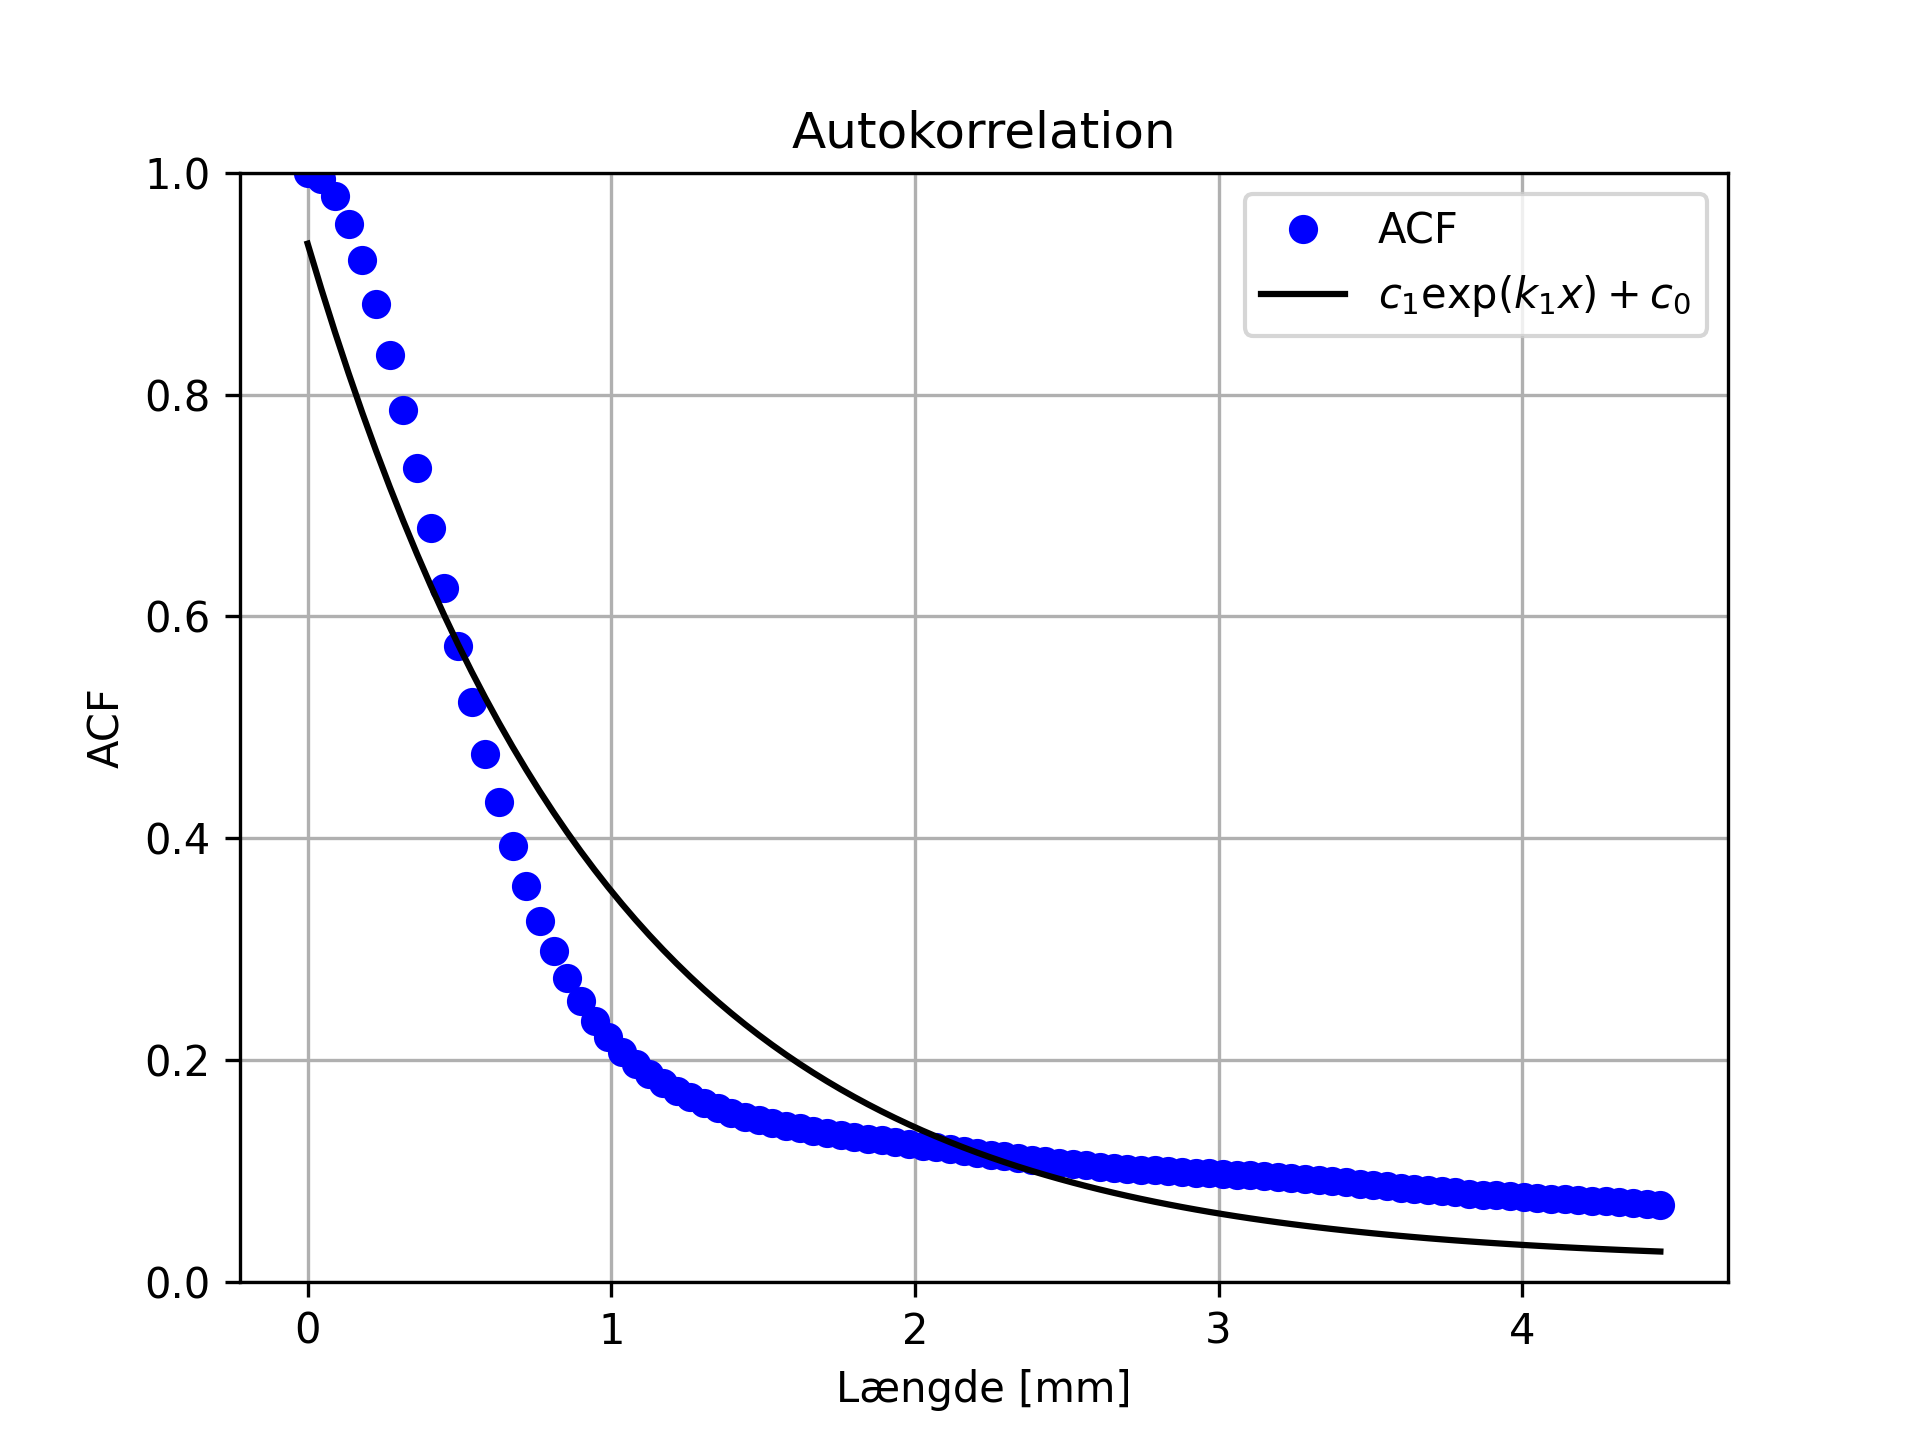
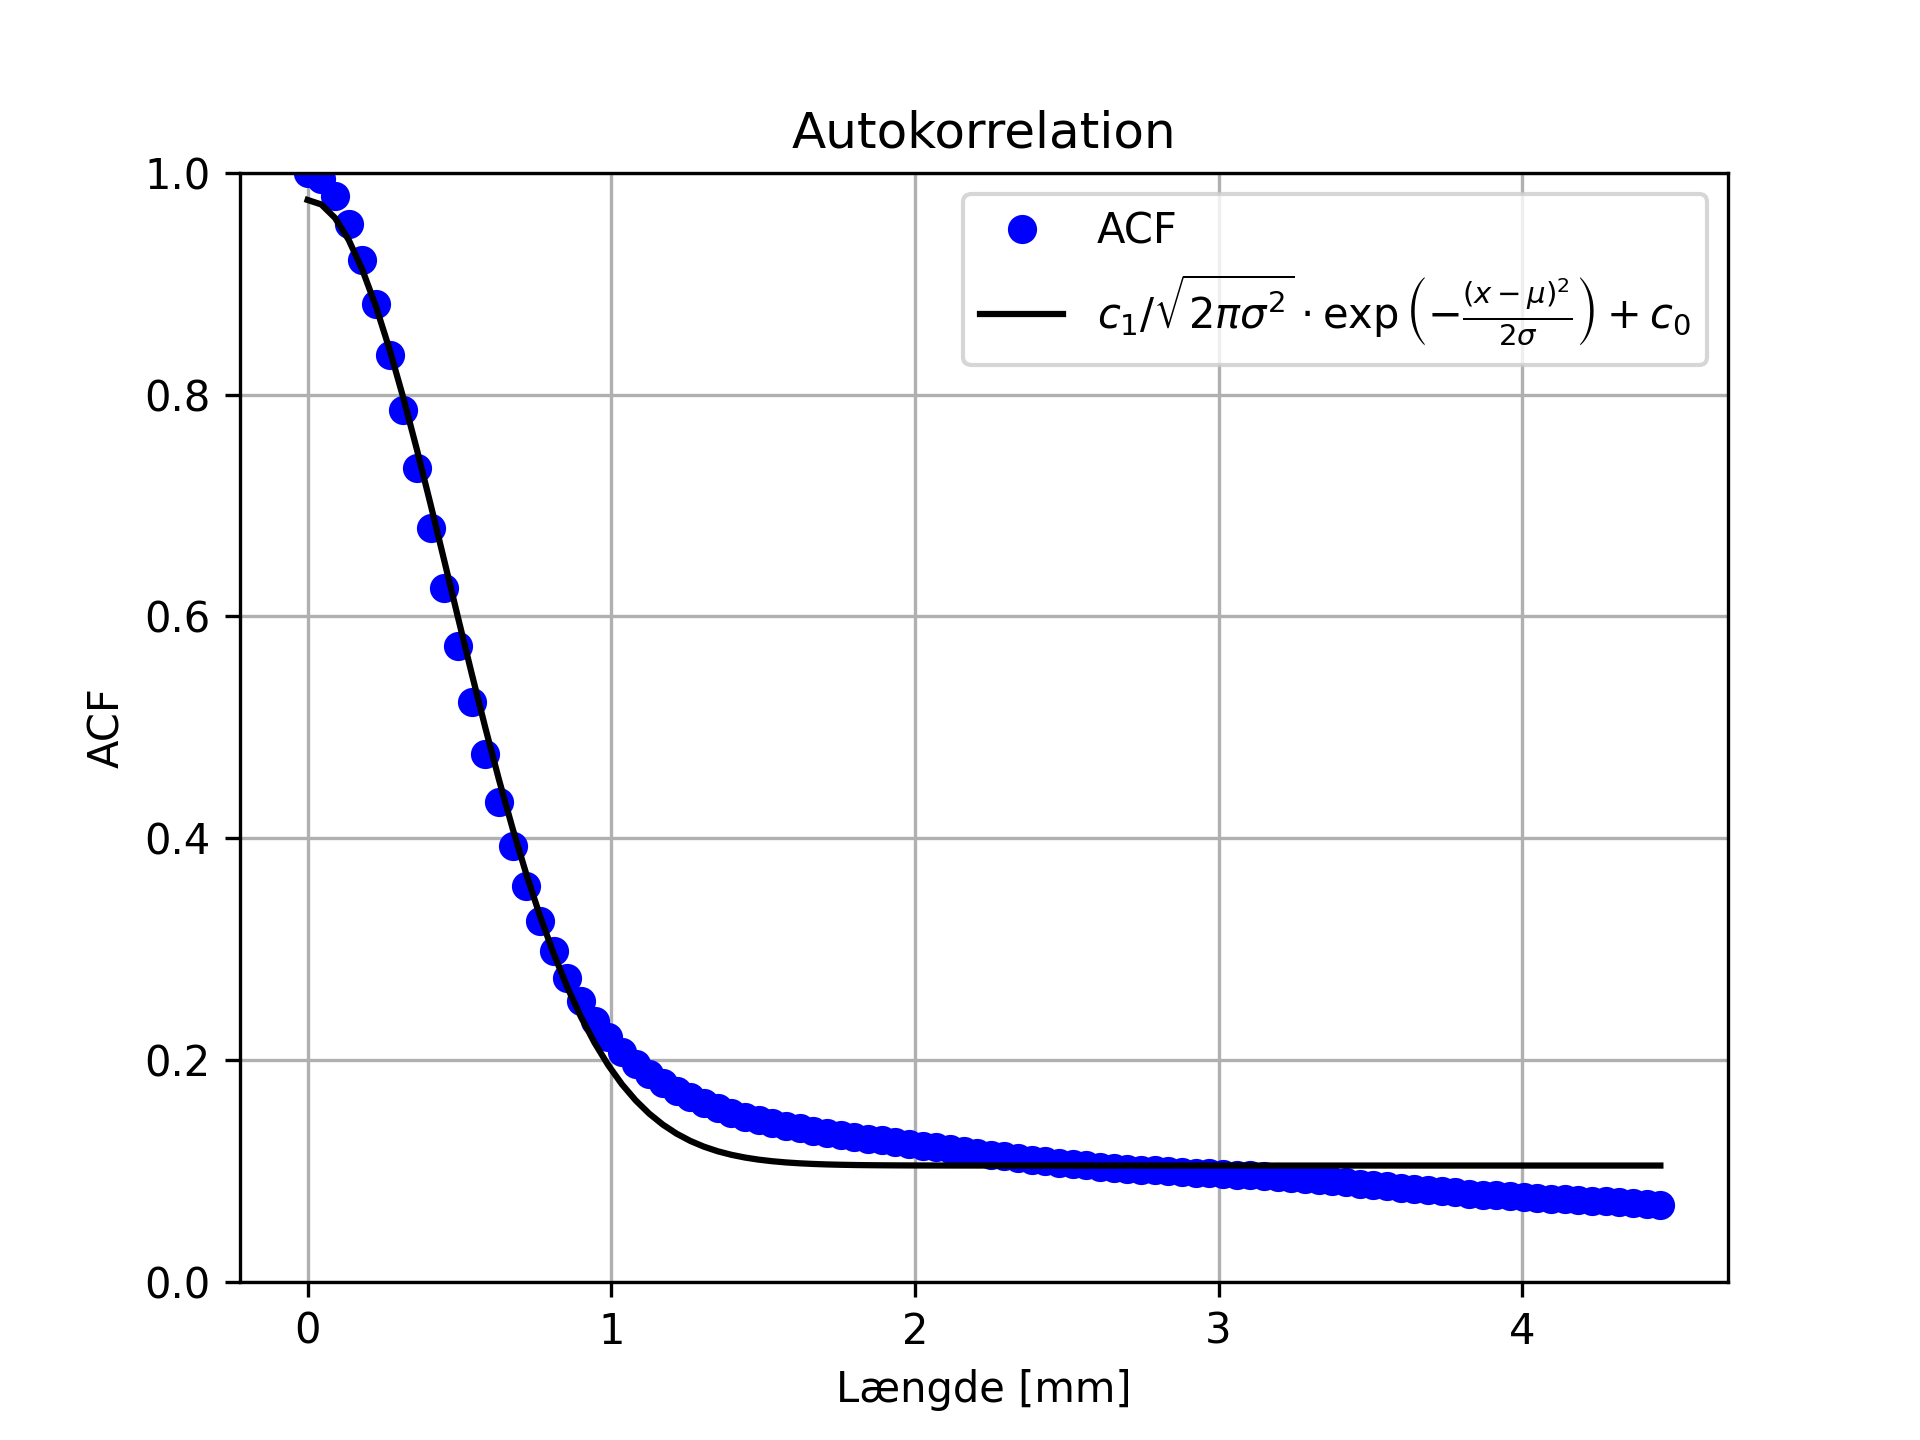
Fixed Plots

diff --git a/plot_acf.py b/plot_acf.py
@@ -11,15 +11,20 @@ def plot_acf(acf, lags, n=1, conversion=90/2000, niter=20, func=1, saveas = None
     x = np.arange(lags)
     y = acf[x]
     x = x*conversion
-    m = lsm(x,y, niter=niter, func=func)
+    if func == 1:
+        m0 = [0.1, 1, -1]
+    elif func == 2:
+        m0 = [0.1,1,0.1,1]
+    
+    m = lsm(x, y, m=m0, niter=niter, func=func)
 
     if func == 1:
         fy = func1(m,x)
         plotlabel = r'$c_1 \exp(k_1 x) + c_0$'
     elif func == 2:
         fy = func2(m,x)
-        plotlabel = r'$c_2 \exp(k_2 x^2) + c_1 \exp(k_1 x) + c_0$'
-    
+        plotlabel = r'$c_1 / \sqrt{2 \pi \sigma^2} \cdot \exp\left(-\frac{\left(x - \mu \right)^2}{2 \sigma}\right) + c_0$'
+
     #print(m)
     plt.figure()
     plt.plot(x,y,'bo',label="ACF")
@@ -35,7 +40,6 @@ def plot_acf(acf, lags, n=1, conversion=90/2000, niter=20, func=1, saveas = None
         #print(fname)
         plt.savefig(fname,dpi=300,format="png")
         plt.show(block=False)
-    plt.close()
 
     rvs = np.cumsum(y)
     cdf = np.cumsum(fy)
@@ -49,34 +53,40 @@ def plot_acf(acf, lags, n=1, conversion=90/2000, niter=20, func=1, saveas = None
     print(f"Statistic is {stat:.04f} compared to {test:.04f}")
     print(f"p-value is {pval:.04f}")
 
+#---------------------------------------------------------------
+
+
 def lsm(x,y, m=[0.1, 1, -1], niter=50, func=1):
     """
     Least square method
     """
-    y = y[:, np.newaxis]
+    # Omdanner til søjlevektorer
+    y = np.hstack([np.flip(y),y])[:,np.newaxis]
+    x = np.hstack([np.flip(-x),x])[:,np.newaxis]
 
-    for i in range(niter):
+    #Itererer
+    for i in range(niter): 
 
         if func == 1:
             # eksponentiel funktion m1*exp(m2*x) + m0
             d0 = dfd0(m,x)
             d1 = df1d1(m,x)
             d2 = df1d2(m,x)
-            G = np.transpose(np.vstack((d0,d1,d2)))
-            yz = y - func1(m,x)[:,np.newaxis]
+            G = np.hstack((d0,d1,d2))
+            yz = y - func1(m,x)
         elif func == 2:
             #Gaussisk funktion exp(x^2) + a0
             d0 = dfd0(m,x)
             d1 = df2d1(m,x)
             d2 = df2d2(m,x)
-            G = np.transpose(np.vstack((d0,d1,d2)))
-            yz = y - func2(m,x)[:,np.newaxis]
+            d3 = df2d3(m,x)
+            G = np.hstack((d0,d1,d2,d3))
+            yz = y - func2(m,x)
         
-        delta = np.linalg.lstsq(G,yz,rcond=None)[0]
-        #print(np.shape(delta))
+        delta = np.linalg.lstsq(G,yz,rcond=None)[0] #Magi
         m = m + np.transpose(delta)[0]
         res = np.transpose(delta).dot(delta)[0][0]
-        #print(f"Residuals for {i}: {res}")
+        print(f"Residuals for {i}: {res}")
         if res < 1e-8:
             break
         
@@ -84,16 +94,18 @@ def lsm(x,y, m=[0.1, 1, -1], niter=50, func=1):
     return m
 
 
+#--------------------------------------------------------------
+
 def func1(m,x):
     return m[0] + m[1]*np.exp(m[2]*x)
 
 def func2(m,x):
-    return m[0] + 1/(m[1]*np.sqrt(2*np.pi)) * np.exp(-1/2 * ((x-m[2])/m[1])**2)
+    return m[0] + (m[3]/(m[1]*np.sqrt(2*np.pi))) * np.exp(-0.5 * ((x-m[2])**2) / (m[1]**2))
 
+#--------------------------------------------------------------
 
-
-def dfd0(m,x):
-    return np.ones(np.size(x))
+def dfd0(m,x): #c_0
+    return np.ones(np.size(x))[:,np.newaxis]
 
 def df1d1(m,x):
     return np.exp(m[2]*x)
@@ -101,11 +113,15 @@ def df1d1(m,x):
 def df1d2(m,x):
     return m[0]*m[1]*np.exp(m[2]*x)
 
-def df2d1(m,x):
-    return ((x - m[2])**2 - m[1]**2)/(m[1]**3) * func2([0,m[1],m[2]],x)
+def df2d1(m,x): #sigma
+    return (((x - m[2])**2 - m[1]**2)/(m[1]**3)) * func2([0,m[1],m[2],m[3]],x)
 
-def df2d2(m,x):
-    return (x-m[2])/(m[1]**2) * func2([0,m[1],m[2]],x)
+def df2d2(m,x): #mu
+    return ((x-m[2])/(m[1]**2)) * func2([0,m[1],m[2],m[3]],x)
+
+def df2d3(m,x): #C_1
+    return func2([0,m[1],m[2],1],x)
+
 
 
 

diff --git a/Tester.py b/Tester.py
@@ -4,8 +4,14 @@ from clipBlur import clipBlur
 from autocofunc import autoCor
 from acf import acf
 #from string import rfind
+from plot_acf import func2
+import matplotlib.pyplot as plt
 
-# acf("thin_slices/firstyearice/southerntransect/20200201_145719.jpg", plot=True, plotfunc=1)
-# acf("thin_slices/firstyearice/southerntransect/20200201_145739.jpg", plot=True, plotfunc=1)
+acf("thin_slices/firstyearice/southerntransect/20200201_145719.jpg", plot=True, plotfunc=2)
+acf("thin_slices/firstyearice/southerntransect/20200201_145739.jpg", plot=True, plotfunc=2)
 
+plt.figure(10)
+xx = np.arange(-3,3,0.05)
+plt.plot(xx,func2([0,1,0,1],xx),'b-')
+plt.show()
 print(int(6.9))
